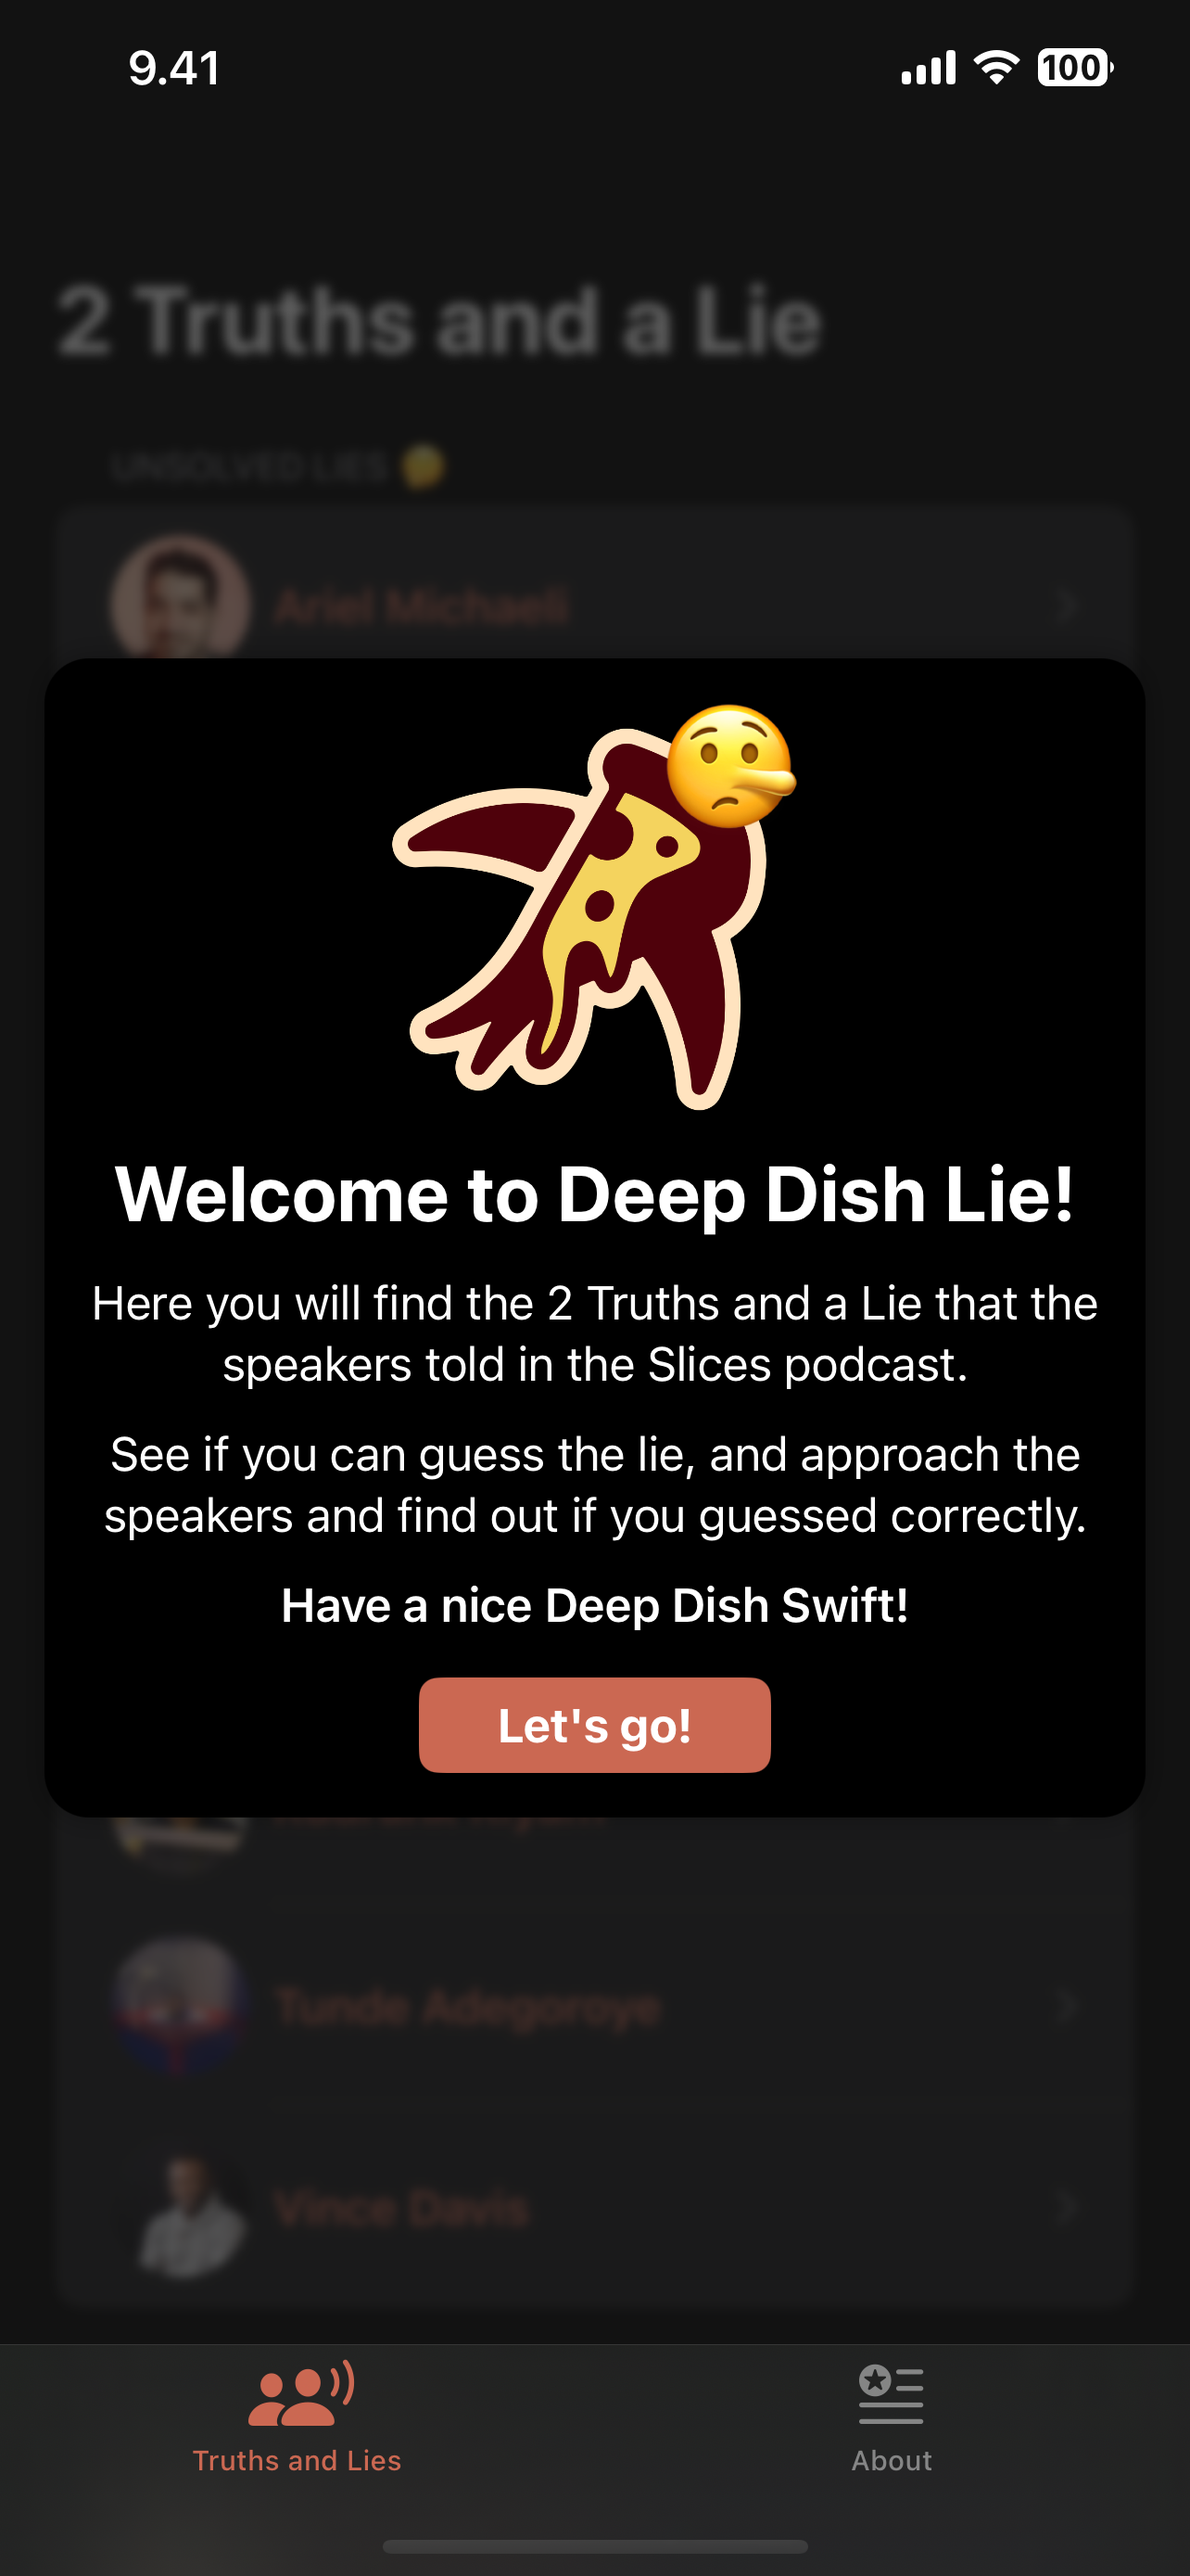
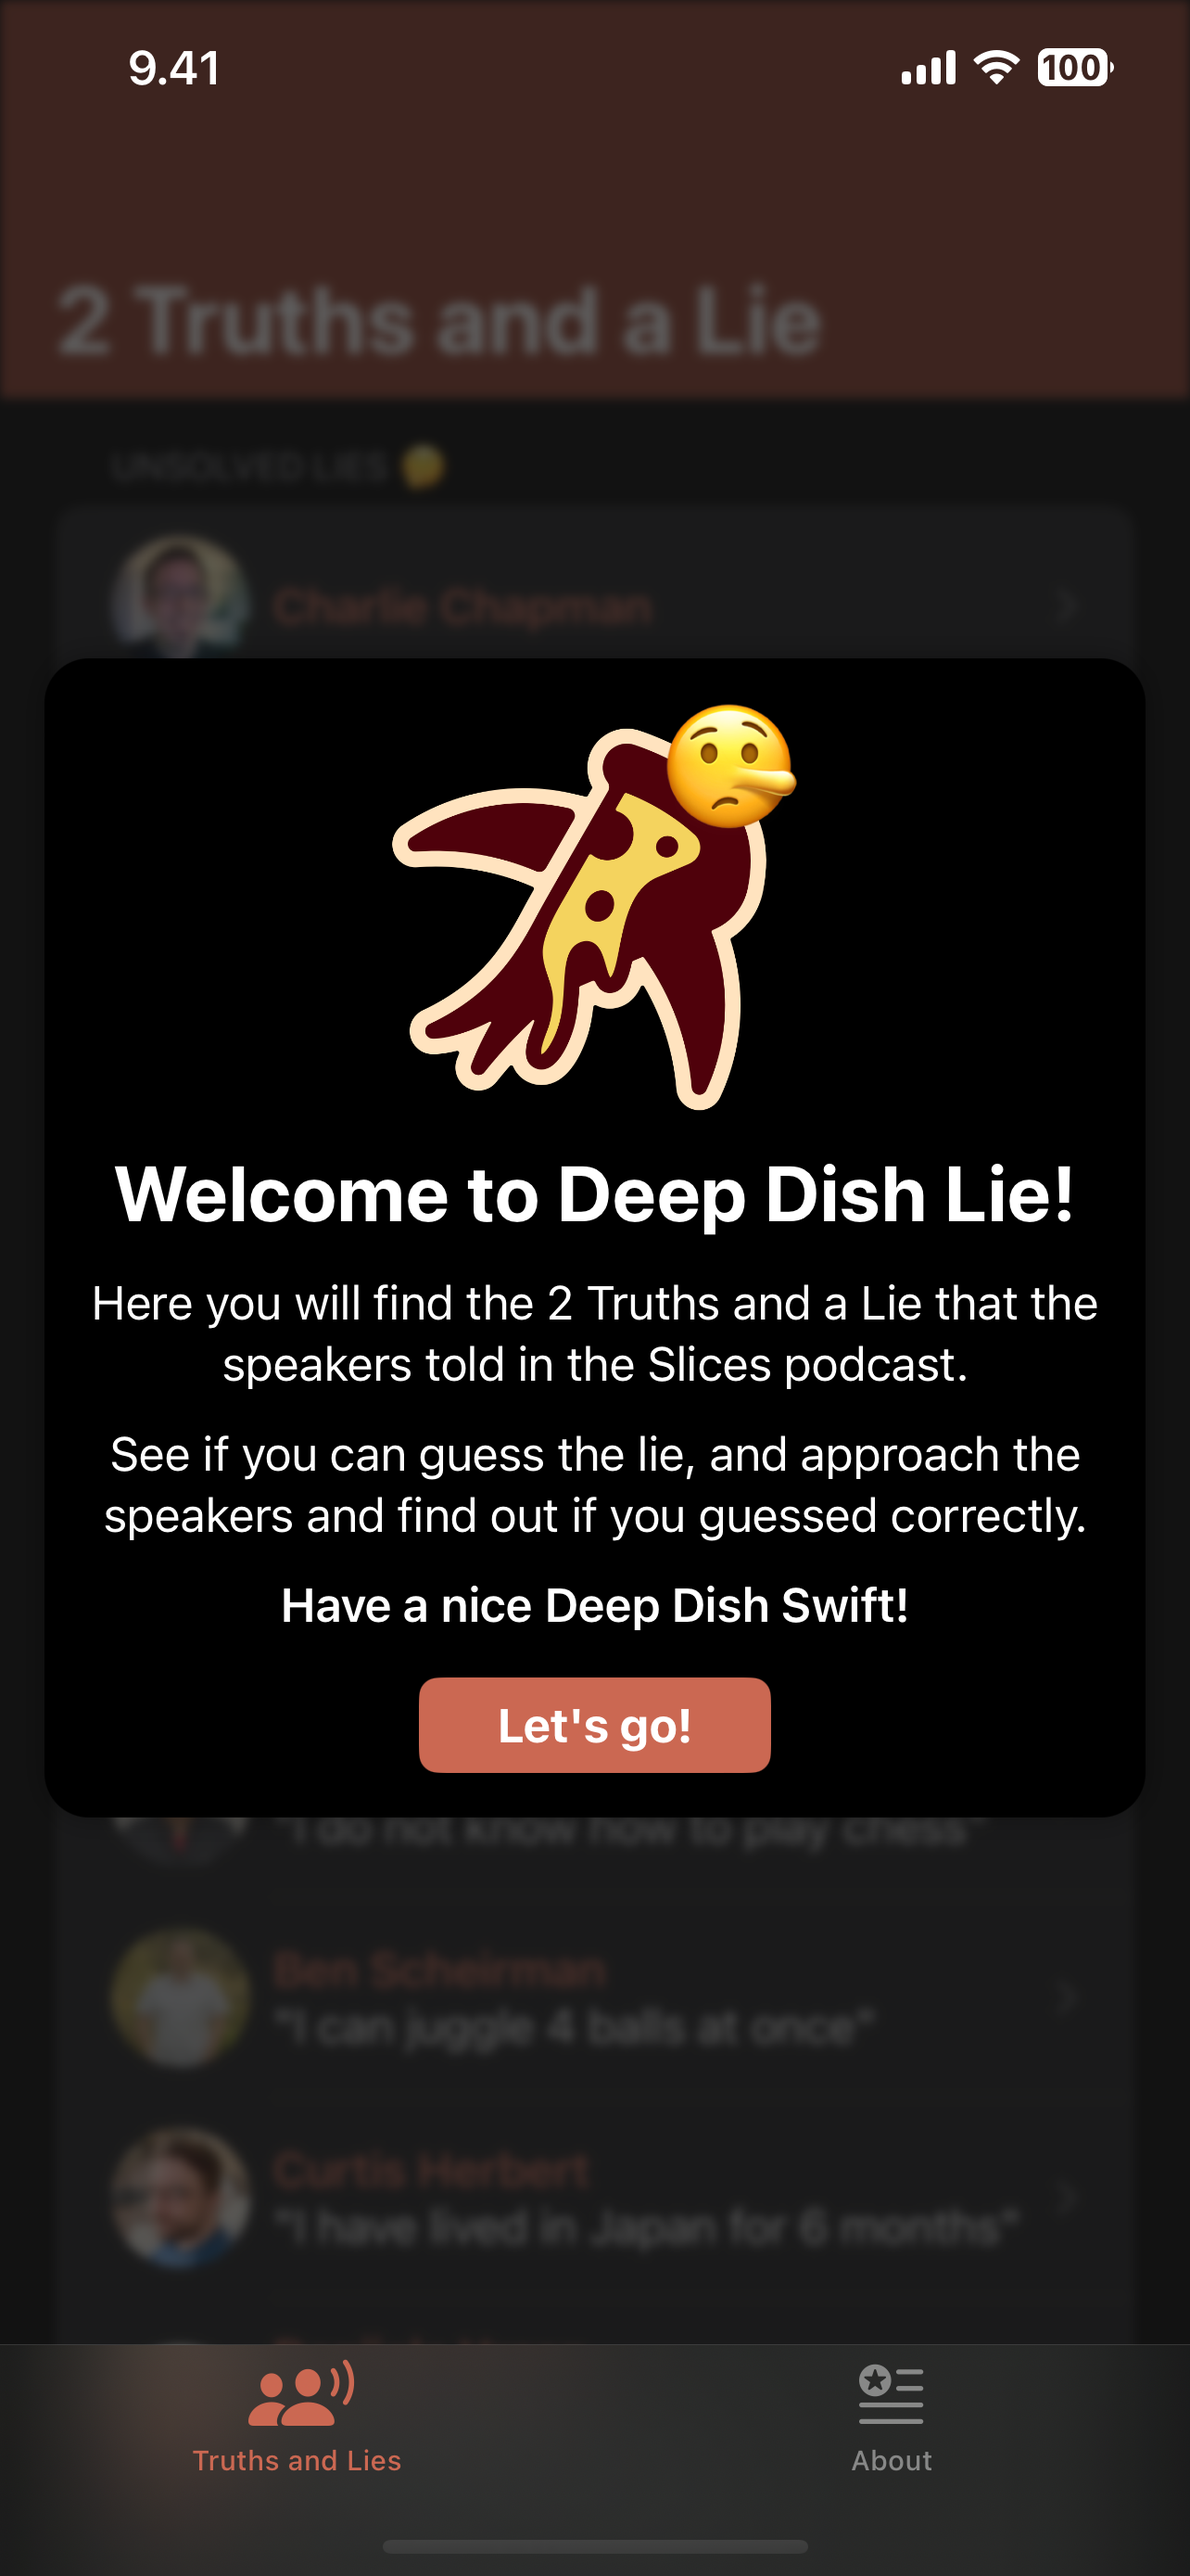
New screenshots

diff --git a/DeepDishLie/Controllers/LieController.swift b/DeepDishLie/Controllers/LieController.swift
@@ -35,10 +35,10 @@ class LieController: ObservableObject {
             self.lieCases = try! JSONDecoder().decode([LieCase].self, from: jsonData)
         }
         do {
-            self.statements = try JSONDecoder().decode([LieCase.ID: LieCase.Statement?].self, from: statementsData)
-        } catch {
-            self.statements = [:]
-        }
+            if !DeepDishLieApp.inDemoMode {
+                self.statements = try JSONDecoder().decode([LieCase.ID: LieCase.Statement?].self, from: statementsData)
+            }
+        } catch {}
     }
 
     private static func loadCachedLieCases() -> [LieCase]? {

diff --git a/DeepDishLie/DeepDishLieApp.swift b/DeepDishLie/DeepDishLieApp.swift
@@ -28,7 +28,9 @@ struct DeepDishLieApp: App {
                     }
             }
             .task {
-                await lieController.fetchLieCases()
+                if !Self.inDemoMode {
+                    await lieController.fetchLieCases()
+                }
             }
         }
     }
